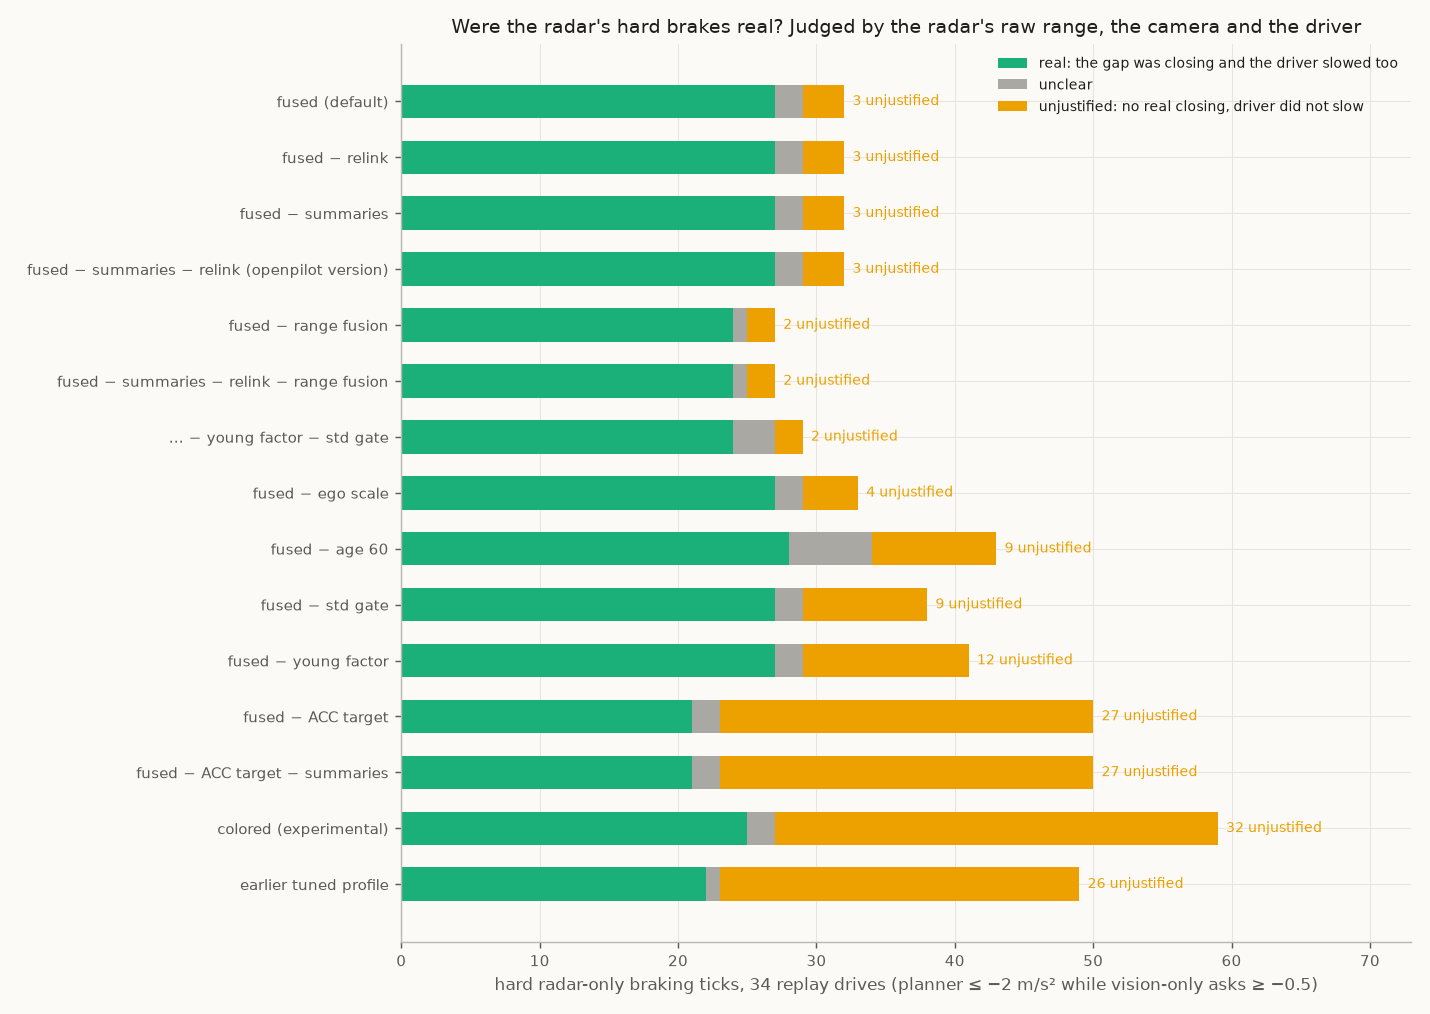
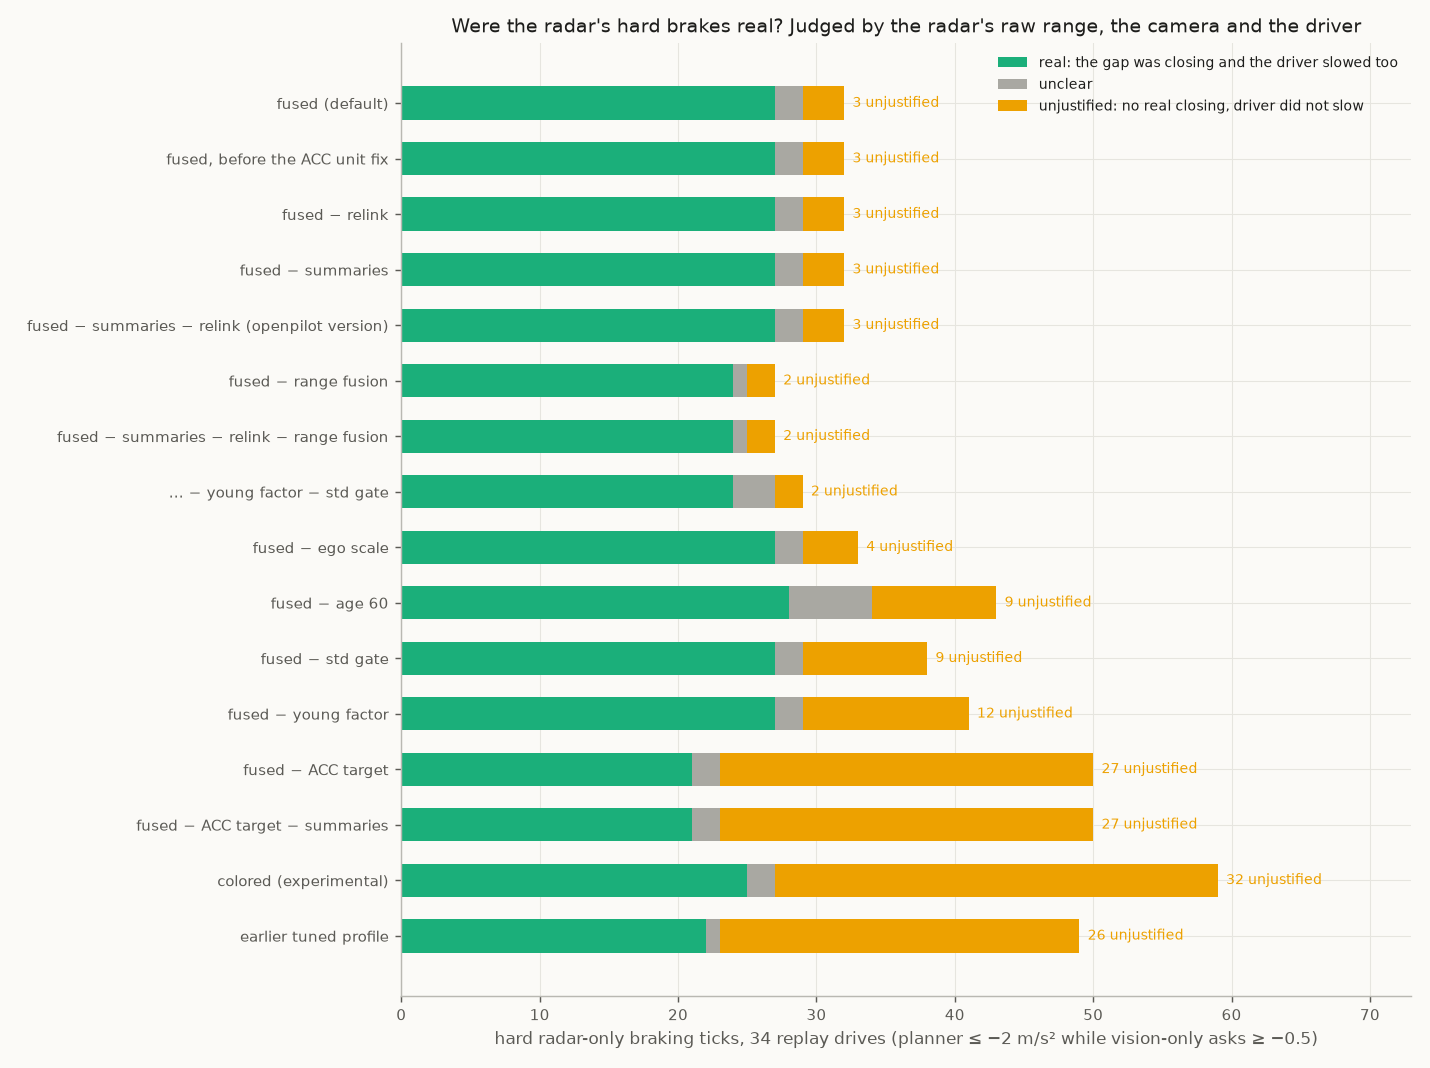
docs: refresh fused numbers and figures for the corrected ACC / summary units (#60)
Vision-only comparison rerun on the units replay: onset -0.02 s vs vision, anticipation 44.9 % (vision 40.1 %),
radar-only braking 0.22 / h unchanged; hard-brake review and figures show the corrected fused as the default.

diff --git a/tools/make_fused_figures.py b/tools/make_fused_figures.py
@@ -274,7 +274,7 @@ def kalman_ablation() -> None:
     ax.axvline(S["none"]["heldout"], color=FUS, lw=0.8, ls=":"); ax.axvline(S["none"]["further"], color=S4, lw=0.8, ls=":")
     ax.set_yticks(y, [lab for lab, _ in rows]); ax.invert_yaxis()
     ax.set_xlabel("hard radar-only braking ticks (planner ≤ −2 m/s² while vision-only ≥ −0.5)")
-    ax.set_title("What each part of the Kalman filter is worth (34 replay drives)"); ax.legend(loc="lower right")
+    ax.set_title("What each part of the Kalman filter is worth (34 replay drives, before the ACC unit fix)"); ax.legend(loc="lower right")
     fig.tight_layout(); fig.savefig(OUT / "kalman_ablation.png", dpi=130); plt.close(fig)
 
 
@@ -300,16 +300,17 @@ def kalman_combinations() -> None:
                 color=FUS if r["passes"] else S4)
     ax.set_yticks(y, [n for n, _, _ in rows]); ax.invert_yaxis(); ax.set_xlim(0, 960); ax.set_xticks([0, 100, 200, 300])
     ax.set_xlabel("lines in the openpilot version (upstream/ars510_radar.py)")
-    ax.set_title("Fewest lines for the same driving: parts removed together (34 replay drives)")
+    ax.set_title("Fewest lines for the same driving: parts removed together (34 replay drives, before the ACC unit fix)")
     fig.tight_layout(); fig.savefig(OUT / "kalman_combinations.png", dpi=130); plt.close(fig)
 
 def kalman_justified() -> None:
     """Hard radar-only braking split by whether it was real (hard_braking_review.json), for each version."""
     S = json.loads((REPO / "data" / "analysis" / "summaries" / "hard_braking_review.json").read_text())["by_run"]
-    order = ["fused", "fused - relink", "fused - summaries", "fused - S - L", "fused - range fusion", "fused - S - R - L",
+    order = ["fused, ACC/summary units corrected", "fused", "fused - relink", "fused - summaries", "fused - S - L", "fused - range fusion", "fused - S - R - L",
              "fused - S - R - L - Y - G", "fused - ego scale", "fused - age 60", "fused - std gate", "fused - young factor",
              "fused - ACC (summaries kept)", "fused - ACC - summaries", "colored", "tuned (anchor)"]
-    names = {"fused": "fused (default)", "fused - S - L": "fused − summaries − relink (openpilot version)",
+    names = {"fused, ACC/summary units corrected": "fused (default)", "fused": "fused, before the ACC unit fix",
+             "fused - S - L": "fused − summaries − relink (openpilot version)",
              "fused - S - R - L": "fused − summaries − relink − range fusion", "fused - S - R - L - Y - G": "… − young factor − std gate",
              "fused - ACC (summaries kept)": "fused − ACC target", "fused - ACC - summaries": "fused − ACC target − summaries",
              "colored": "colored (experimental)", "tuned (anchor)": "earlier tuned profile"}

diff --git a/docs/11_profiles_compared.md b/docs/11_profiles_compared.md
@@ -17,7 +17,7 @@ Numbers: [`profiles_vs_vision.json`](../data/analysis/summaries/profiles_vs_visi
 | code beyond the decode | ~60 (guard, relink; fork only) | +24 | +82 with the summaries (fork); +42 in the openpilot version |
 | hard radar-only braking ticks, 20 held-out routes | 93 | 48 | **30** |
 | braking only the radar asked for, per hour (driver on the gas) | 1.75 (0.66) | 0.88 (0.22) | **0.22 (0)** |
-| first braking request vs vision only, 167 driver brakes | **−0.15 s** | −0.03 s | +0.01 s |
+| first braking request vs vision only, 167 driver brakes | −0.15 s | −0.03 s | −0.02 s |
 | recommended for | research | object-only fallback when neither a matched ACC target nor summary is available | everyday driving |
 
 `raw` is the unfiltered radar decode, not vision only and not stock openpilot. The middle column is not a separate
@@ -62,7 +62,7 @@ tracks back without a range threshold.*
 
 *Lead closing speed (top) and planner request (bottom) under vision only and `fused`, through the unchanged
 planner; grey dots are the raw object-list speed of the radar lead, dashed is the radar's ACC target, dotted the
-summary slope where the parser would associate it. Times are relative to the moment.*
+summary slope where the parser would associate it. Times are relative to the moment. Replayed before the ACC / summary unit correction.*
 
 1. **False closing rejected.** The object list dives to −6 m/s; the ACC target and summary stay at −0.6. `fused`
    follows the trackers and asks for what vision asks for.
@@ -87,20 +87,20 @@ Held-out set: 20 routes, 4.56 h with the driver controlling speed, 167 driver br
 
 | driver brake presses (167) | vision only | `raw` | `fused` w/o ACC / summary | `fused` |
 |---|---|---|---|---|
-| first request ≤ −0.5 m/s², mean vs vision (95 % CI) | — | −0.15 s [−0.26, −0.05] | −0.03 s [−0.11, +0.04] | +0.01 s [−0.04, +0.06] |
-| median first request vs the brake press | −0.61 s | −0.87 s | −0.74 s | −0.67 s |
-| already asking ≤ −0.5 m/s² within 3 s before | 80.8 % | 84.4 % | 83.8 % | 81.4 % |
-| already asking ≤ −1.0 m/s² within 3 s before | 40.1 % | 44.3 % | 41.9 % | 41.9 % |
-| hard slowdowns never asked ≤ −1 m/s² (of 47) | 10 | 9 | 10 | 10 |
+| first request ≤ −0.5 m/s², mean vs vision (95 % CI) | — | −0.15 s [−0.26, −0.05] | −0.03 s [−0.11, +0.04] | −0.02 s [−0.08, +0.03] |
+| median first request vs the brake press | −0.61 s | −0.87 s | −0.74 s | −0.71 s |
+| already asking ≤ −0.5 m/s² within 3 s before | 80.8 % | 84.4 % | 83.8 % | 82.0 % |
+| already asking ≤ −1.0 m/s² within 3 s before | 40.1 % | 44.3 % | 41.9 % | 44.9 % |
+| hard slowdowns never asked ≤ −1 m/s² (of 47) | 10 | 9 | 10 | 9 |
 
 | over 4.56 h of driver-controlled driving | vision only | `raw` | `fused` w/o ACC / summary | `fused` |
 |---|---|---|---|---|
 | braking (≤ −1 m/s², ≥ 0.3 s) only this system asked for, per hour | 0 | 1.75 | 0.88 | 0.22 |
 | … of which the driver was on the gas | — | 0.66 | 0.22 | 0 |
 | hard radar-only braking ticks (≤ −2 m/s² while vision ≥ −0.5) | — | 93 | 48 | 30 |
-| driver overrides (38): radar request closer / further than vision to what the driver then did | — | 7 / 2 | 6 / 1 | 5 / 0 |
+| driver overrides (38): radar request closer / further than vision to what the driver then did | — | 7 / 2 | 6 / 1 | 7 / 0 |
 | request error vs the driver's acceleration 0.5 s later (RMS) | 0.409 m/s² | 0.422 | 0.419 | 0.414 |
-| request jerk (mean \|da/dt\|) | 1.029 | 1.009 | 1.007 | 1.001 |
+| request jerk (mean \|da/dt\|) | 1.029 | 1.009 | 1.007 | 1.002 |
 | share of lead time on a radar lead | 0 | 86.6 % | 86.8 % | 87.1 % |
 
 What the radar adds, by profile:
@@ -109,11 +109,11 @@ What the radar adds, by profile:
   start is real (the radar sees closings through curves and before the camera's distance estimate settles); part comes
   from an over-closing bias of the unfiltered object list (the earlier tuned profile was still 0.54 m/s more closing
   than the vision lead in the 4 s before driver brakes). The same bias causes its radar-only braking.
-- **`fused` removes that bias** (0.02 m/s from vision on average) and, with it, almost all radar-only braking: 0.22 per
-  hour, every one while the driver also slowed. Its timing is then the same as vision on average: 11 driver brakes are
-  answered earlier than vision (by 0.62 s on average, 7 of them hard slowdowns) and 17 later; 14 of those 17 are
-  equally late with every radar profile (the radar lead shows less closing than vision there), so they come from using
-  radar at all, not from the filter.
+- **`fused` removes that bias** and, with it, almost all radar-only braking: 0.22 per hour, every one while the
+  driver also slowed. It still brakes slightly earlier than vision on average (−0.02 s): 19 of 148 paired driver brakes
+  are answered earlier than vision and 14 later, and it is already asking for ≥ 1 m/s² before 44.9% of brake presses
+  (vision 40.1%). In the 4 s before driver brakes its lead shows on average 0.46 m/s less closing than the vision lead
+  (median 0.27; [`profiles_vs_vision.json`](../data/analysis/summaries/profiles_vs_vision.json)).
 - **The Kalman filter alone** (no ACC target or summary) halves `raw`'s false braking (93 → 48 hard ticks, as many as
   the whole earlier tuned stack) with onset between `raw` and `fused`; the radar's own trackers supply the rest of
   `fused`'s gain.
@@ -126,7 +126,7 @@ What the radar adds, by profile:
 |---|---|---|
 | vision only | smooth; no radar-specific false braking | camera distance at range; no radar head start on closings through curves or far away |
 | `raw` | earliest reaction to real slowdowns (−0.15 s vs vision) | the most radar-only braking (1.75 / h, a third with the driver on the gas): occasional sharp brakes for nothing beyond 40 m |
-| `fused` | closest to vision in feel (lowest jerk, smallest error vs the driver), radar-only braking almost gone, small average pre-brake closing bias against vision in these replays, one speed state | braking onset the same as vision on average (no average head start); one car's road miles so far |
+| `fused` | closest to vision in feel (lowest jerk, smallest error vs the driver), radar-only braking almost gone, slightly earlier than vision on average, one speed state | the head start over vision is small on average; one car's road miles so far |
 
 ## Assumptions and limits
 

diff --git a/docs/08_openpilot_integration.md b/docs/08_openpilot_integration.md
@@ -88,18 +88,17 @@ Replay against the driver, unchanged openpilot card → radard → planner
 |---|---|---|---|
 | hard radar-only braking ticks, 20 held-out routes (4.6 h) | 93 | 48 | **30** |
 | radar-only episodes (hard / target), held-out | 15 / 19 | 10 / 8 | **10 / 4** |
-| hard radar-only braking ticks / target episodes, owner sunnypilot drives | 17 / – | **0** / 4 | **0 / 0** |
+| hard radar-only braking ticks / target episodes, owner sunnypilot drives | 17 / – | **0** / 4 | **0** / 1 (an early reaction to a real slowdown) |
 | hard radar-only braking ticks, fresh owner drives (1.9 h) | 16 | – | **0** |
-| mean braking onset vs the driver, 167 held-out events | −1.170 s | −1.090 s | −1.038 s |
-| driver brakes the planner anticipated (≤ −1 m/s² from 3 s before to 0.5 s after) | 44.3% | 41.9% | 41.9% |
+| mean braking onset vs the driver, 167 held-out events | −1.170 s | −1.090 s | −1.085 s |
+| driver brakes the planner anticipated (≤ −1 m/s² from 3 s before to 0.5 s after) | 44.3% | 41.9% | 44.9% |
 
 The middle column is `fused` with the ACC target and summary readings ignored: the Kalman filter on the object list
 alone, which is the fallback when neither a matched ACC target nor a summary update is available.
 
-`fused` brakes later than `raw` before some driver brakes because it drops a bias: in the 4 s before the driver brakes,
-its lead closing speed is 0.02 m/s from the vision lead on average (the earlier tuned profile: 0.54 m/s more closing).
-The earlier reactions came from the same over-closing that causes false brakes
-([07](12_kalman_filter.md#the-model)).
+`raw` reacts earlier than `fused` before some driver brakes because of an over-closing bias, the same one that causes
+its false brakes ([12](12_kalman_filter.md#the-model)). `fused` still asks for braking slightly before vision on
+average (−0.02 s).
 
 "Hard radar-only" means the planner asks for ≤ −2 m/s² while the same drive without radar asks for no more than
 −0.5 m/s²: braking that only the radar wanted. `raw` reacts earlier on average but asks for hard braking three times
@@ -149,16 +148,16 @@ unchanged openpilot card → radard → planner; details, driving pros and cons 
 
 | | vision only | `raw` | `fused` without ACC / summary | `fused` |
 |---|---|---|---|---|
-| first braking request vs vision, mean | — | −0.15 s | −0.03 s | +0.01 s |
-| already asking ≤ −1.0 m/s² within 3 s before a brake press | 40.1% | 44.3% | 41.9% | 41.9% |
-| hard slowdowns never asked ≤ −1 m/s² (of 47) | 10 | 9 | 10 | 10 |
+| first braking request vs vision, mean | — | −0.15 s | −0.03 s | −0.02 s |
+| already asking ≤ −1.0 m/s² within 3 s before a brake press | 40.1% | 44.3% | 41.9% | 44.9% |
+| hard slowdowns never asked ≤ −1 m/s² (of 47) | 10 | 9 | 10 | 9 |
 | braking only the radar asked for, per hour (driver on the gas) | 0 | 1.75 (0.66) | 0.88 (0.22) | 0.22 (0) |
-| request jerk, mean \|da/dt\| | 1.029 | 1.009 | 1.007 | 1.001 |
+| request jerk, mean \|da/dt\| | 1.029 | 1.009 | 1.007 | 1.002 |
 | forward-collision warnings | 0 | 0 | 0 | 0 |
 
 `raw`'s earlier reactions come partly from real head starts (closings through curves, far away) and
-partly from an over-closing bias that also causes its radar-only braking; `fused` removes the bias, keeps vision's
-timing on average and nearly all of radar's distance accuracy.
+partly from an over-closing bias that also causes its radar-only braking; `fused` removes the bias, still asks for
+braking slightly before vision on average, and keeps nearly all of radar's distance accuracy.
 
 ![radar sees the closing first](img/shots/curve_early_closing.jpg)
 

diff --git a/README.md b/README.md
@@ -42,8 +42,9 @@ From replaying 34 recorded drives through openpilot's unchanged radard and plann
 
 - **Leads come from the radar** about 87% of the time a lead exists, so the gap to the car ahead is measured, not
   estimated from the camera. Stops end about 1 m closer to the lead than with vision (vision reads the gap short).
-- **Braking starts when vision-only would** on average. On some real slowdowns the radar sees the closing first (curves,
-  far leads); on others vision does.
+- **Braking starts slightly before vision-only would** on average (0.02 s), and the planner is already asking for
+  ≥ 1 m/s² before 45% of the driver's brake presses (vision: 40%). On some real slowdowns the radar sees the closing
+  first (curves, far leads); on others vision does.
 - **Braking that only the radar wanted** happens about 0.22 times per hour (the unfiltered radar: 1.75), always while
   the driver also slowed, never while the driver was on the gas. The requests are as smooth as vision-only.
 - **Known quirk:** far away (beyond about 80 m) without the radar's own ACC target, a jump in a far car's reported
@@ -103,8 +104,9 @@ other radar interfaces: [docs/11](docs/11_profiles_compared.md). The filter itse
 | **Object list** (0x80): transport, CRC, 20 slots, track IDs | ● decoded |
 | **Distance, lateral position, speed over ground** | ● field layout and motion; ◐ exact physical zero and scales ([06](docs/06_accuracy.md)) |
 | **Object attributes**: lane assignment, class, size, heading, lateral speed and acceleration, existence, uncertainties | ◐ decoded; physical names and scales of some fields provisional ([03](docs/03_slot_fields.md)) |
-| **Radar's ACC target** (0x235 / 0x237, 50 Hz) | ● raw fields, ◐ unit conversions, ◐ sent by the radar itself ([05](docs/05_acc_target_and_support.md)) |
-| **Target summaries** (0x191-0x194) | ● raw structure, ◐ meaning; range scale fitted ([05](docs/05_acc_target_and_support.md)) |
+| **Radar's ACC target** (0x235 / 0x237, 50 Hz) | ● raw fields; ● speed 0.125 m/s and range 0.025 m per code (checked against `0x680` and stopped leads); ◐ sent by the radar itself ([05](docs/05_acc_target_and_support.md)) |
+| **Target summaries** (0x191-0x194) | ● raw structure; ● 0x192 / 0x194 = position of one internal track, in the object list's encoding ([05](docs/05_acc_target_and_support.md)) |
+| **Single-object stream** (0x680, 2 Hz) | ◐ one tracked object, mostly stationary roadside objects; absolute range at 1/32 m ([05](docs/05_acc_target_and_support.md)) |
 | **Event pair** (0x195 / 0x196) | ● raw payloads; ◐ a short-time-to-collision state ([05](docs/05_acc_target_and_support.md#0x195--0x196-event-pair)) |
 | **Metadata cells** (0x85) | ◐ ten lane / road-boundary curves; ○ remaining cell fields ([04](docs/04_metadata_record_0x85.md)) |
 | **openpilot integration** | installable on openpilot, sunnypilot and StarPilot; replayed end to end; driven by the owner on FrogPilot, StarPilot and sunnypilot ([08](docs/08_openpilot_integration.md)) |

diff --git a/docs/12_kalman_filter.md b/docs/12_kalman_filter.md
@@ -119,7 +119,8 @@ The two filters run in series, so all replay numbers already include their combi
 
 ## What each part is worth
 
-Each part removed from `fused` on its own, 34 replay drives. Counts are hard radar-only braking ticks (planner
+Each part removed from `fused` on its own, 34 replay drives (measured before the ACC / summary unit correction, which
+leaves hard braking unchanged). Counts are hard radar-only braking ticks (planner
 ≤ −2 m/s² while vision-only asks ≥ −0.5) on 20 held-out routes / 4 further drives / 3 owner drives:
 
 ![what each part is worth](img/analysis/kalman_ablation.png)
